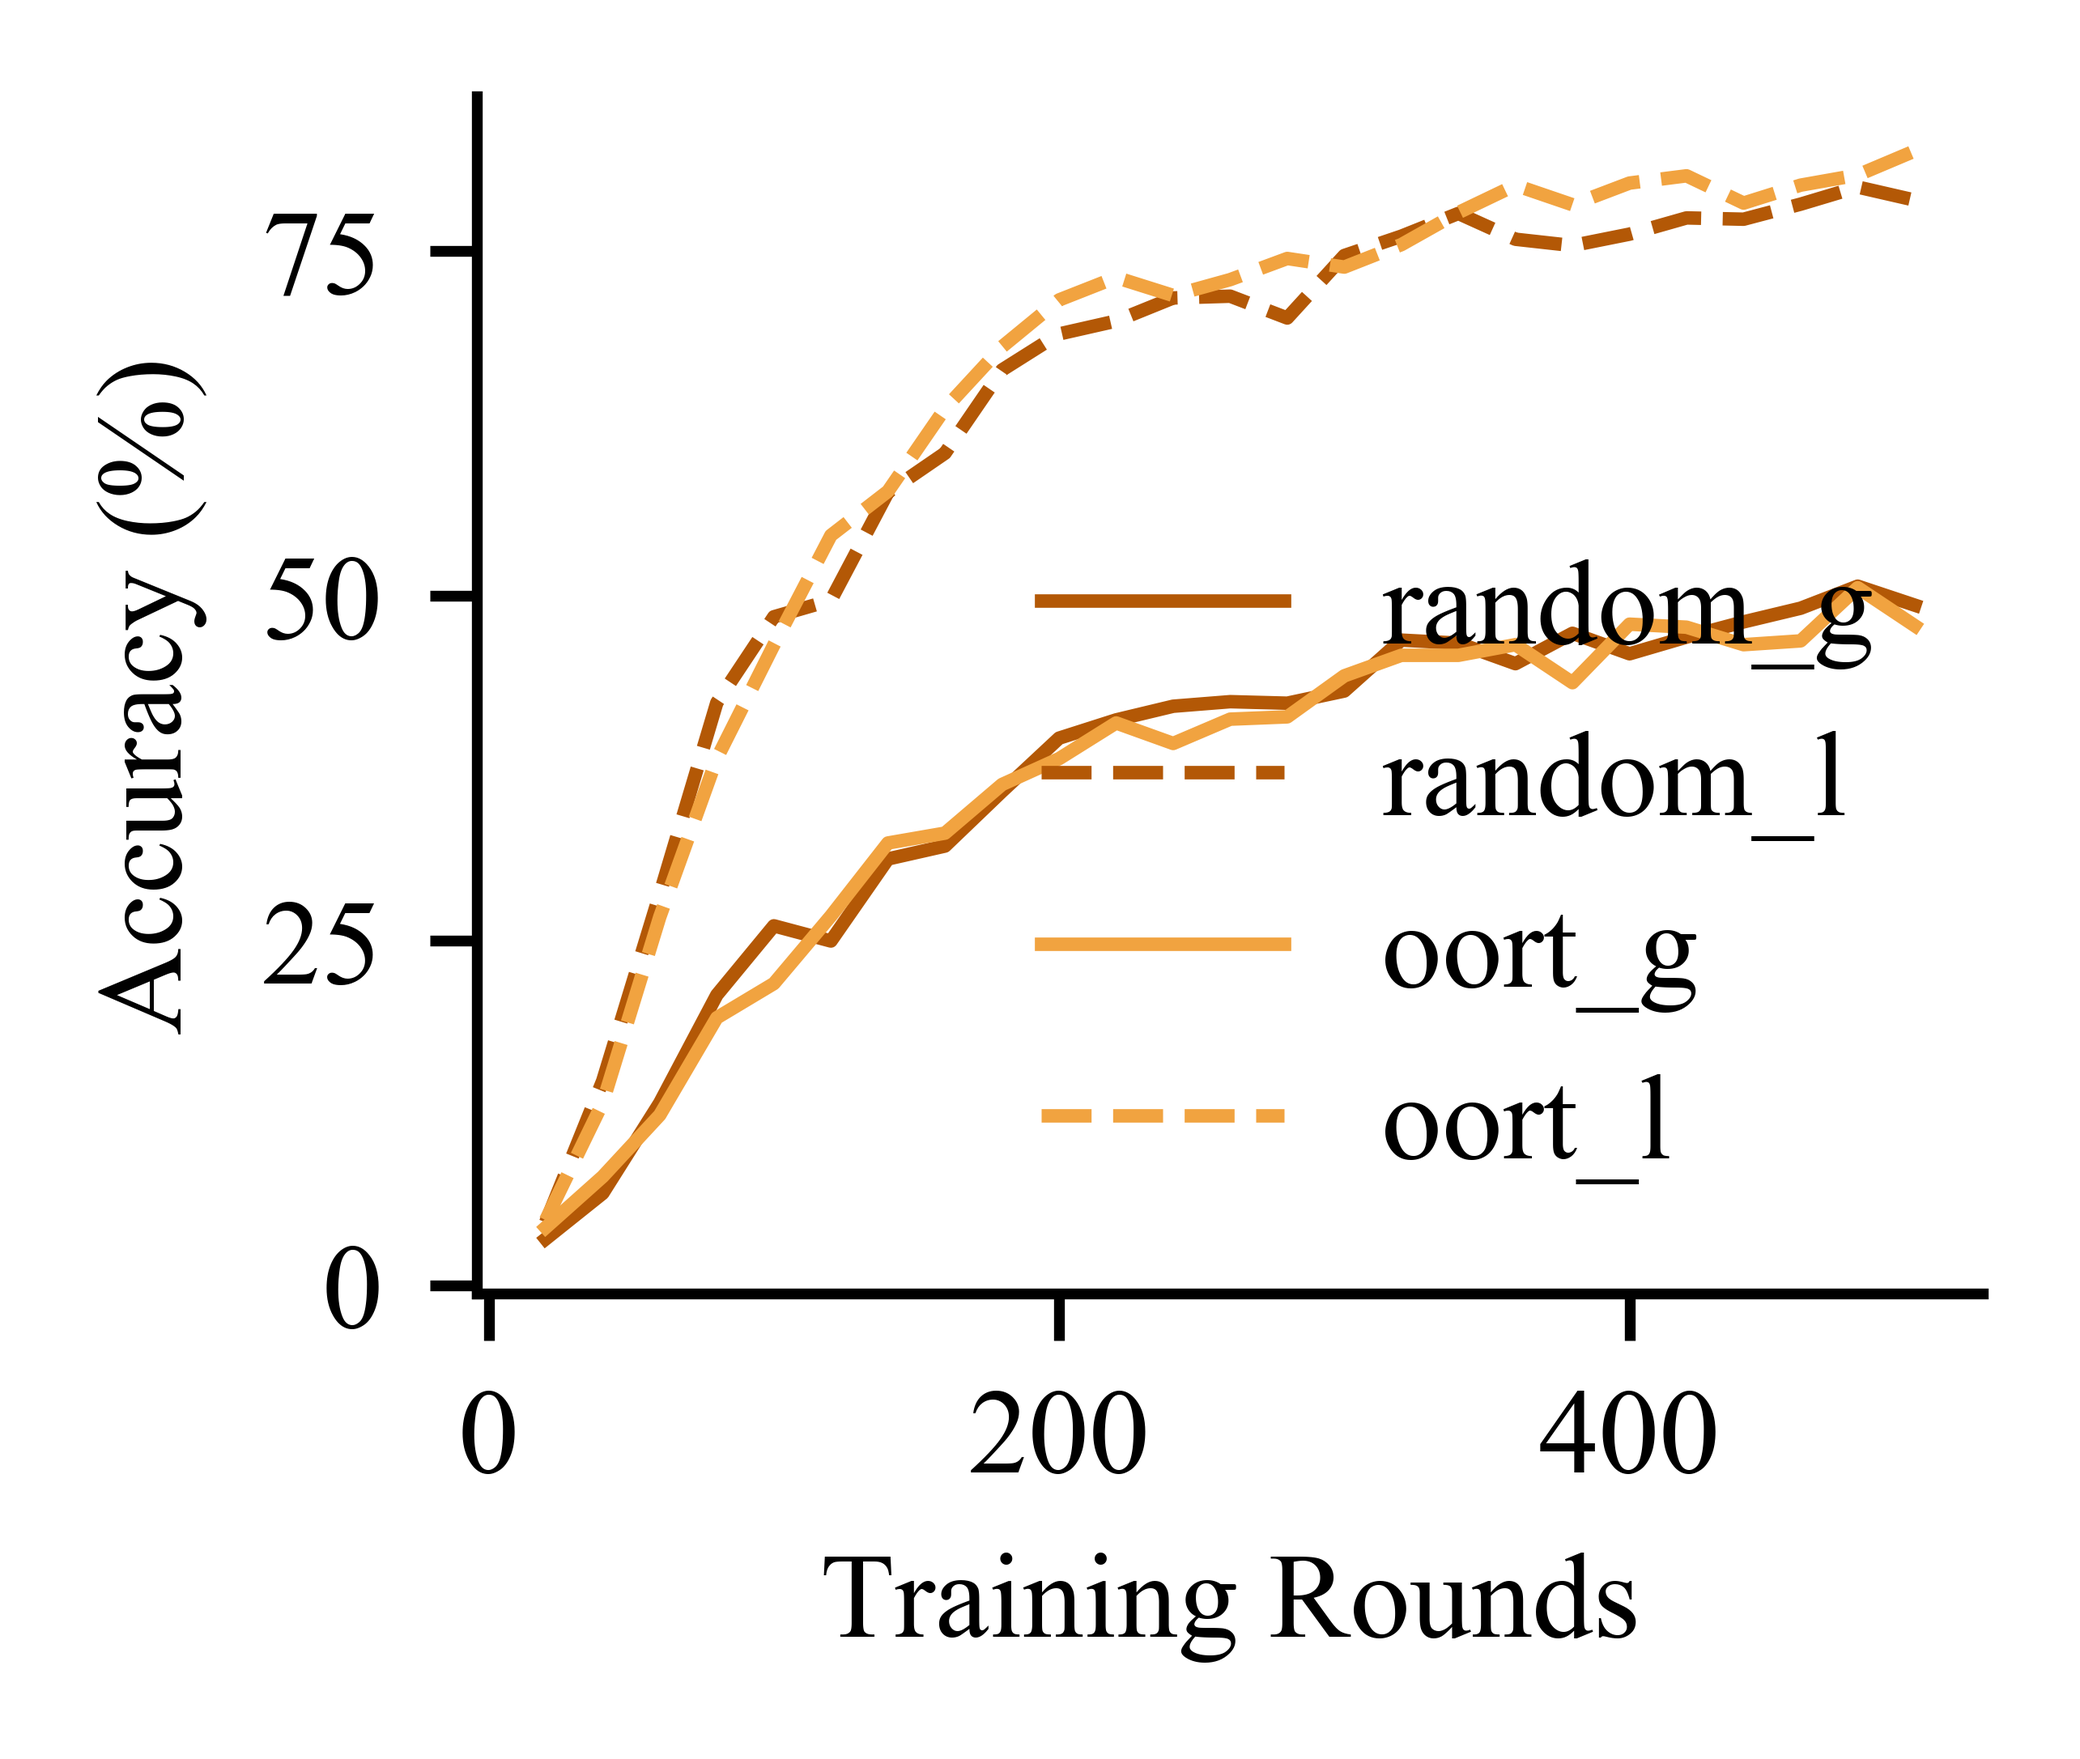
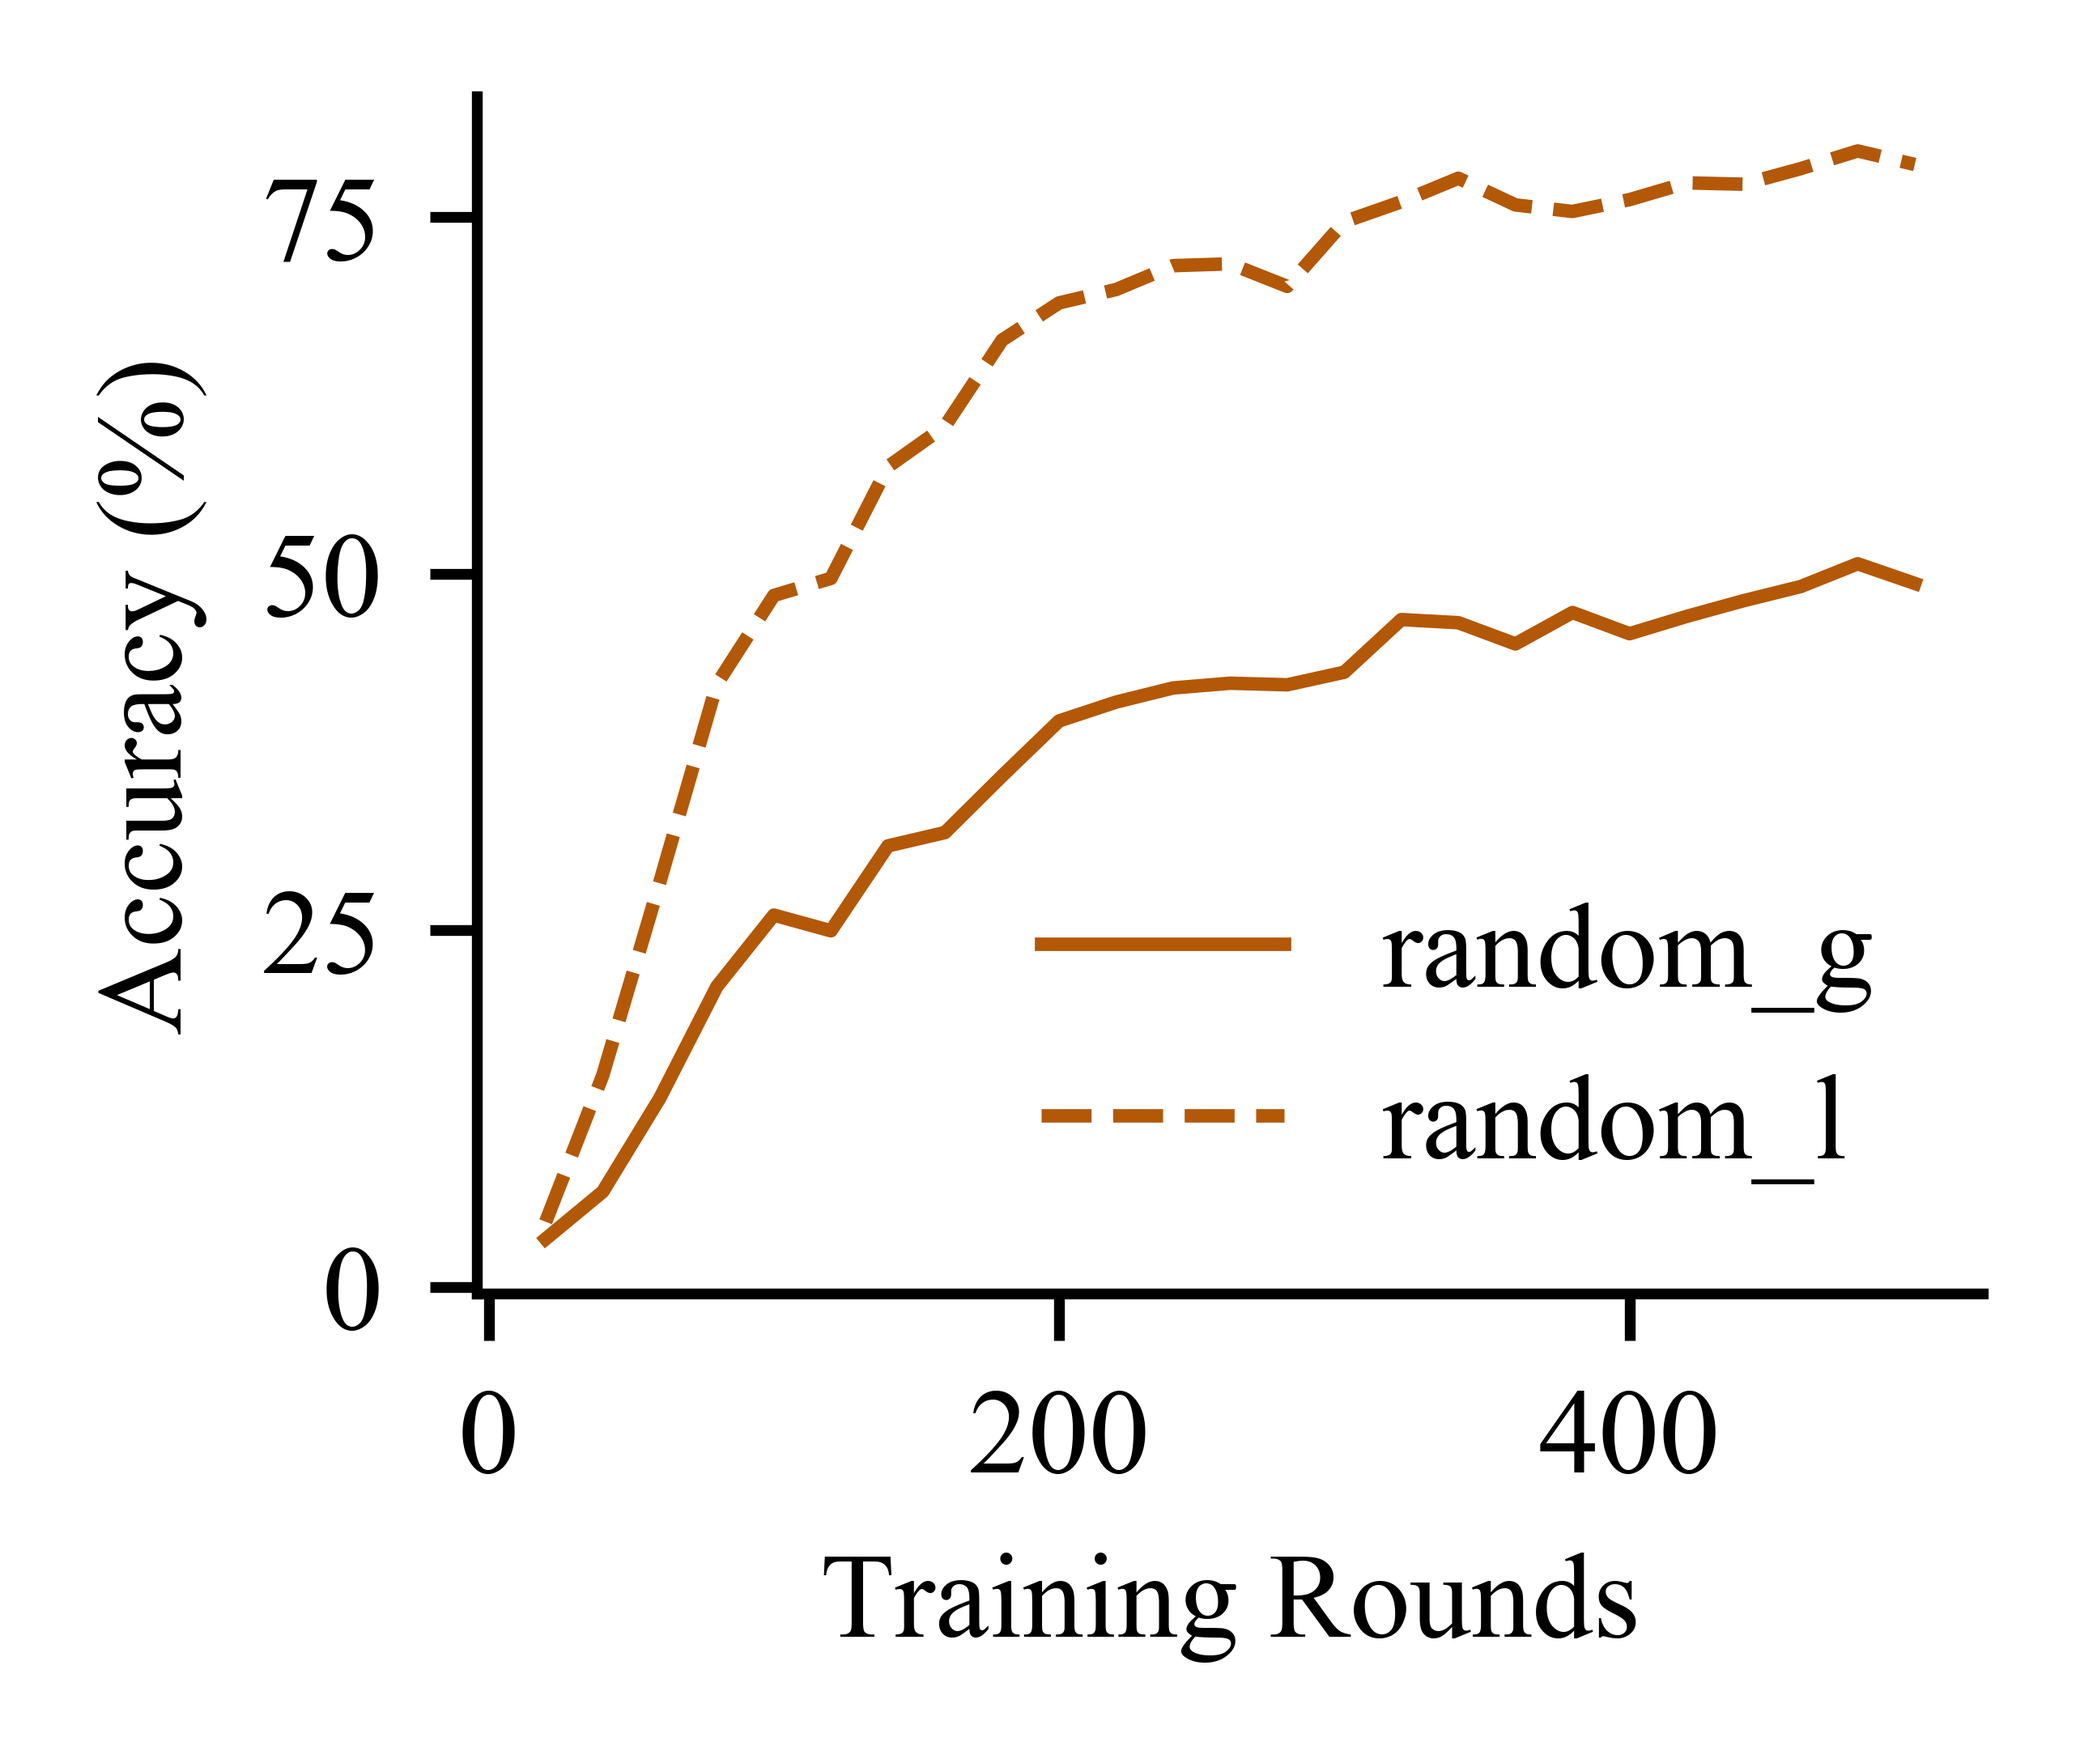
ns

diff --git a/core/evals/my_perf.py b/core/evals/my_perf.py
@@ -95,8 +95,8 @@ def run(task_prefix):
     personalized = "meta" # "meta" or "none" or "ditto"
     task_dict = {
         f"random_{personalized}_all_test": "random",
-        f"oort_{personalized}_all_test": "oort",
-        f"async_{personalized}_all_test_60": "async"
+        # f"oort_{personalized}_all_test": "oort",
+        f"async_{personalized}_all_test_100": "async"
     }
 
     # x-axis
